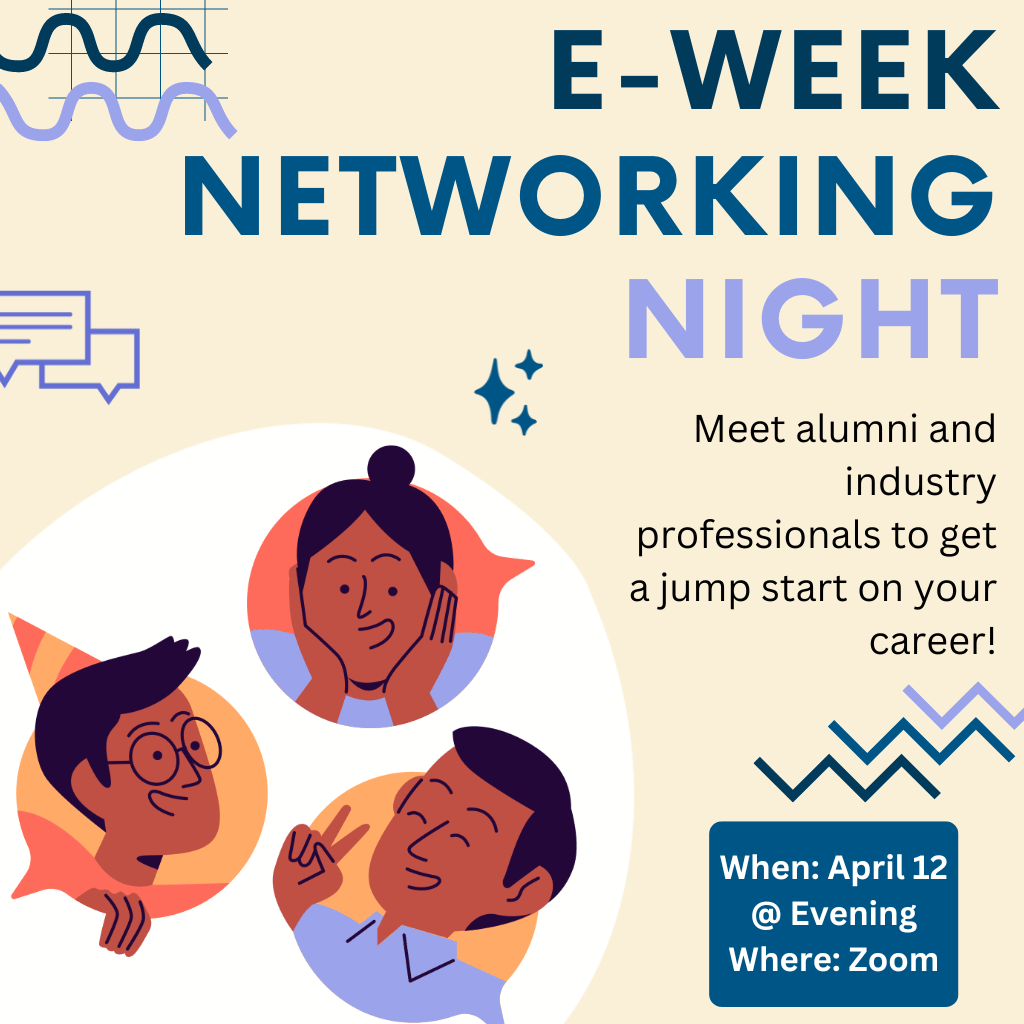
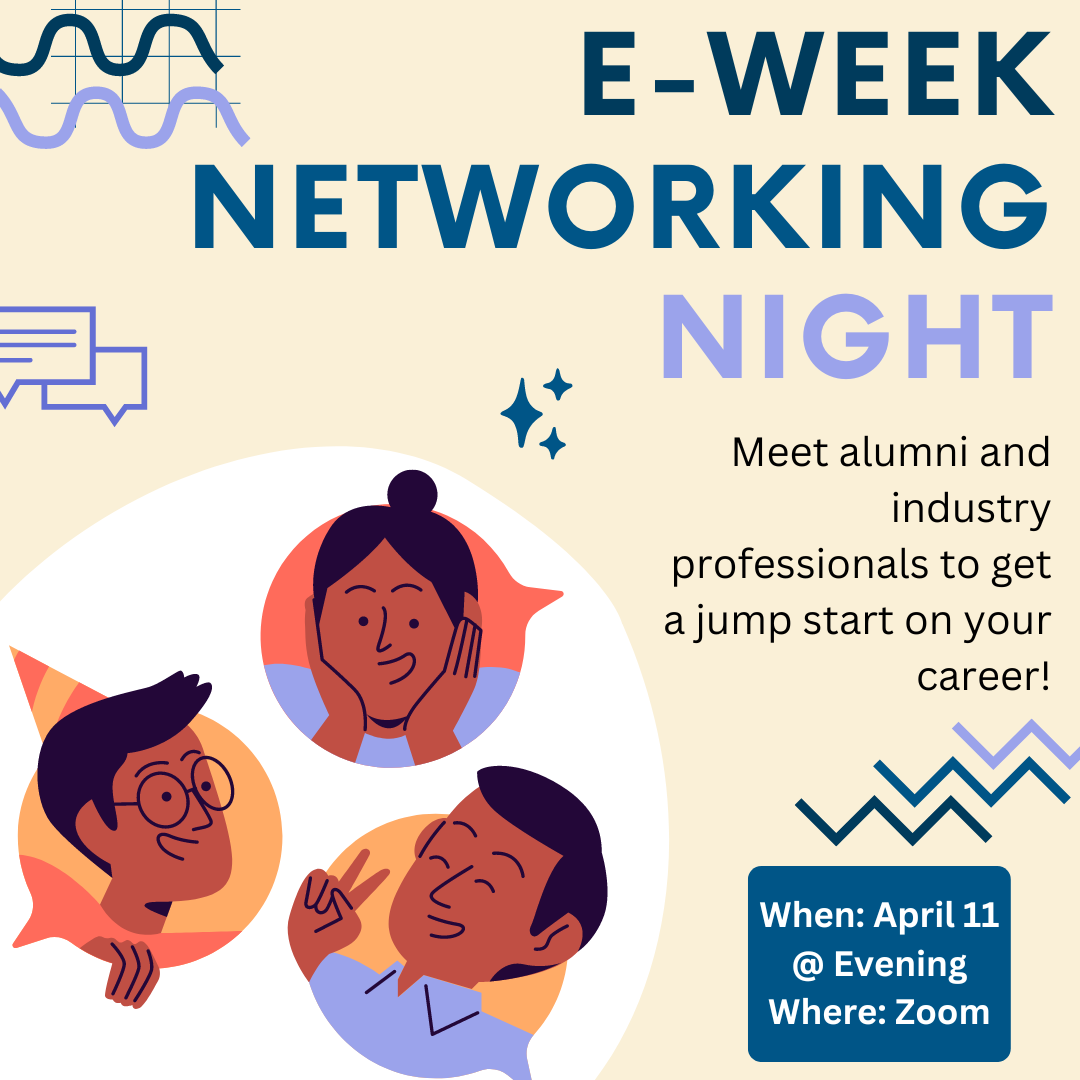
Add event information

diff --git a/index.html b/index.html
@@ -11,7 +11,7 @@
 
     gtag('config', 'G-LC3GMRC42E');
   </script>
-  
+
   <meta charset="utf-8">
   <meta content="width=device-width, initial-scale=1.0" name="viewport">
 
@@ -61,7 +61,7 @@
           <li><a class="nav-link scrollto active" href="#hero">Home</a></li>
           <li><a class="nav-link scrollto" href="#about">About</a></li>
           <li><a class="nav-link scrollto" href="#events">Events</a></li>
-          <li><a class="nav-link scrollto " href="#display">Art Gallery</a></li>
+          <li><a class="nav-link scrollto " href="#display">Art Display</a></li>
           <!-- <li class="dropdown"><a href="#"><span>Drop Down</span> <i class="bi bi-chevron-down"></i></a>
             <ul>
               <li><a href="#">Drop Down 1</a></li>
@@ -207,7 +207,7 @@
           <li class="nav-item col-2">
             <a class="nav-link" data-bs-toggle="tab" href="#tab-4">
               <i class="ri-store-line"></i>
-              <h4 class="d-none d-lg-block">Engineer's Ball</h4>
+              <h4 class="d-none d-lg-block">Engineers Ball</h4>
             </a>
           </li>
           <li class="nav-item col-2">
@@ -219,7 +219,7 @@
           <li class="nav-item col-2">
             <a class="nav-link" data-bs-toggle="tab" href="#tab-6">
               <i class="ri-store-line"></i>
-              <h4 class="d-none d-lg-block">Art Gallery</h4>
+              <h4 class="d-none d-lg-block">Art Display</h4>
             </a>
           </li>
         </ul>
@@ -228,20 +228,21 @@
           <div class="tab-pane active show" id="tab-1">
             <div class="row">
               <div class="col-lg-6 order-2 order-lg-1 mt-3 mt-lg-0">
-                <h3>Voluptatem dignissimos provident quasi corporis voluptates sit assumenda.</h3>
+                <h3>Kids Day</h3>
                 <p class="fst-italic">
-                  Lorem ipsum dolor sit amet, consectetur adipiscing elit, sed do eiusmod tempor incididunt ut labore et dolore
-                  magna aliqua.
+                  Kids Day is an event for the UCLA Engineering Students to give back to the community. 
+                  During Kids Day, hundreds of elementary school students are invited to UCLA for a day of hands-on learning outside of a classroom setting. 
                 </p>
                 <ul>
-                  <li><i class="ri-check-double-line"></i> Ullamco laboris nisi ut aliquip ex ea commodo consequat.</li>
-                  <li><i class="ri-check-double-line"></i> Duis aute irure dolor in reprehenderit in voluptate velit.</li>
-                  <li><i class="ri-check-double-line"></i> Ullamco laboris nisi ut aliquip ex ea commodo consequat. Duis aute irure dolor in reprehenderit in voluptate trideta storacalaperda mastiro dolore eu fugiat nulla pariatur.</li>
+                  <li><i class="ri-check-double-line"></i> Date: April 11, 2023</li>
+                  <li><i class="ri-check-double-line"></i> Time: 8 AM to 1 PM</li>
+                  <li><i class="ri-check-double-line"></i> Location: Ackerman Grand Ballroom</li>
                 </ul>
                 <p>
-                  Ullamco laboris nisi ut aliquip ex ea commodo consequat. Duis aute irure dolor in reprehenderit in voluptate
-                  velit esse cillum dolore eu fugiat nulla pariatur. Excepteur sint occaecat cupidatat non proident, sunt in
-                  culpa qui officia deserunt mollit anim id est laborum
+                  Engineer's Week is a decades-old tradition at the University of California, Los Angeles (UCLA) hosted by the Engineering Society of UCLA. 
+                  During this week-long festivities, the UCLA engineering community gathers to celebrate the achievements of the engineering clubs and works together to give back to the greater community. 
+                  One of the primary events is Kids Day, during which hundreds of elementary school students are invited to UCLA for a day of hands-on learning outside of a classroom setting. 
+                  This is a rewarding experience for older students to volunteer their time to the community and help foster a love for learning and engineering in younger students.
                 </p>
               </div>
               <div class="col-lg-6 order-1 order-lg-2 text-center">
@@ -252,22 +253,20 @@
           <div class="tab-pane" id="tab-2">
             <div class="row">
               <div class="col-lg-6 order-2 order-lg-1 mt-3 mt-lg-0">
-                <h3>Neque exercitationem debitis soluta quos debitis quo mollitia officia est</h3>
-                <p>
-                  Ullamco laboris nisi ut aliquip ex ea commodo consequat. Duis aute irure dolor in reprehenderit in voluptate
-                  velit esse cillum dolore eu fugiat nulla pariatur. Excepteur sint occaecat cupidatat non proident, sunt in
-                  culpa qui officia deserunt mollit anim id est laborum
-                </p>
+                <h3>Networking Night</h3>
                 <p class="fst-italic">
-                  Lorem ipsum dolor sit amet, consectetur adipiscing elit, sed do eiusmod tempor incididunt ut labore et dolore
-                  magna aliqua.
+                  An evening during E-Week, where representatives from  different companies come to talk to UCLA students about the future, industry, and advice.
                 </p>
                 <ul>
-                  <li><i class="ri-check-double-line"></i> Ullamco laboris nisi ut aliquip ex ea commodo consequat.</li>
-                  <li><i class="ri-check-double-line"></i> Duis aute irure dolor in reprehenderit in voluptate velit.</li>
-                  <li><i class="ri-check-double-line"></i> Provident mollitia neque rerum asperiores dolores quos qui a. Ipsum neque dolor voluptate nisi sed.</li>
-                  <li><i class="ri-check-double-line"></i> Ullamco laboris nisi ut aliquip ex ea commodo consequat. Duis aute irure dolor in reprehenderit in voluptate trideta storacalaperda mastiro dolore eu fugiat nulla pariatur.</li>
+                  <li><i class="ri-check-double-line"></i> Date: April 11, 2023</li>
+                  <li><i class="ri-check-double-line"></i> Time: Evening</li>
+                  <li><i class="ri-check-double-line"></i> Location: Zoom</li>
                 </ul>
+                <p>
+                  This smaller networking event is embedded in E-week and is designed to be a casual, informative evening for students to start or continue forming professional relationships with company representatives/alumni, as well as get advice. 
+                  The goal of Networking Night is to help undergraduate students make connections with people in the industry. 
+                  Undergraduate students are able to get insight into what it is like to work in the industry and how they can get internships.
+                </p>
               </div>
               <div class="col-lg-6 order-1 order-lg-2 text-center">
                 <img src="assets/img/events/networkingnight.png" alt="" class="img-fluid">
@@ -277,20 +276,19 @@
           <div class="tab-pane" id="tab-3">
             <div class="row">
               <div class="col-lg-6 order-2 order-lg-1 mt-3 mt-lg-0">
-                <h3>Voluptatibus commodi ut accusamus ea repudiandae ut autem dolor ut assumenda</h3>
-                <p>
-                  Ullamco laboris nisi ut aliquip ex ea commodo consequat. Duis aute irure dolor in reprehenderit in voluptate
-                  velit esse cillum dolore eu fugiat nulla pariatur. Excepteur sint occaecat cupidatat non proident, sunt in
-                  culpa qui officia deserunt mollit anim id est laborum
+                <h3>Rocket Egg Drop</h3>
+                <p class="fst-italic">
+                  The goals of this engineering challenge are to allow students to demonstrate their newfound knowledge from classes and apply what they have learned in a fun, team-oriented environment.
                 </p>
                 <ul>
-                  <li><i class="ri-check-double-line"></i> Ullamco laboris nisi ut aliquip ex ea commodo consequat.</li>
-                  <li><i class="ri-check-double-line"></i> Duis aute irure dolor in reprehenderit in voluptate velit.</li>
-                  <li><i class="ri-check-double-line"></i> Provident mollitia neque rerum asperiores dolores quos qui a. Ipsum neque dolor voluptate nisi sed.</li>
+                  <li><i class="ri-check-double-line"></i> Date: April 13, 2023</li>
+                  <li><i class="ri-check-double-line"></i> Time: 4 PM to 6 PM</li>
+                  <li><i class="ri-check-double-line"></i> Location: Boelter Penthouse (Floor 9)</li>
                 </ul>
-                <p class="fst-italic">
-                  Lorem ipsum dolor sit amet, consectetur adipiscing elit, sed do eiusmod tempor incididunt ut labore et dolore
-                  magna aliqua.
+                <p>
+                  In the spirit of E-Week, students will get the chance to show off their engineering skills through a classic egg drop with a twist. 
+                  The egg will be launched off the balcony with a bottle rocket of their design. Materials will be provided to protect the egg through various means. 
+                  Contestants will be judged on their design, construction, and inventiveness and win prizes during the awards ceremony after the eggs have been launched.
                 </p>
               </div>
               <div class="col-lg-6 order-1 order-lg-2 text-center">
@@ -301,21 +299,21 @@
           <div class="tab-pane" id="tab-4">
             <div class="row">
               <div class="col-lg-6 order-2 order-lg-1 mt-3 mt-lg-0">
-                <h3>Omnis fugiat ea explicabo sunt dolorum asperiores sequi inventore rerum</h3>
-                <p>
-                  Ullamco laboris nisi ut aliquip ex ea commodo consequat. Duis aute irure dolor in reprehenderit in voluptate
-                  velit esse cillum dolore eu fugiat nulla pariatur. Excepteur sint occaecat cupidatat non proident, sunt in
-                  culpa qui officia deserunt mollit anim id est laborum
-                </p>
+                <h3>Engineers Ball</h3>
                 <p class="fst-italic">
-                  Lorem ipsum dolor sit amet, consectetur adipiscing elit, sed do eiusmod tempor incididunt ut labore et dolore
-                  magna aliqua.
+                  Engineers Ball is a semi-formal social event for UCLA Engineering Students to have fun and step away from the stress of classes. 
+                  With provided food and entertainment, students will be able to enjoy catching up with old friends and making new ones.
                 </p>
                 <ul>
-                  <li><i class="ri-check-double-line"></i> Ullamco laboris nisi ut aliquip ex ea commodo consequat.</li>
-                  <li><i class="ri-check-double-line"></i> Duis aute irure dolor in reprehenderit in voluptate velit.</li>
-                  <li><i class="ri-check-double-line"></i> Ullamco laboris nisi ut aliquip ex ea commodo consequat. Duis aute irure dolor in reprehenderit in voluptate trideta storacalaperda mastiro dolore eu fugiat nulla pariatur.</li>
+                  <li><i class="ri-check-double-line"></i> Date: April 14, 2023</li>
+                  <li><i class="ri-check-double-line"></i> Time: 6 PM to 9 PM</li>
+                  <li><i class="ri-check-double-line"></i> Location: TBD</li>
                 </ul>
+                <p>
+                  Engineers Ball is an event hosted by ESUC during our annual Engineers Week (E-Week) during Week 2 of Spring Quarter. 
+                  It is a chance for engineering students to unwind from the stresses of the year and have fun with friends! 
+                  With the many tasks that engineering students often take on in addition to their classes, ESUC aims to create a relaxing environment where students can dress up and have fun with crafts and games provided at the event.
+                </p>
               </div>
               <div class="col-lg-6 order-1 order-lg-2 text-center">
                 <img src="assets/img/events/engineersball.png" alt="" class="img-fluid">
@@ -325,20 +323,18 @@
           <div class="tab-pane" id="tab-5">
             <div class="row">
               <div class="col-lg-6 order-2 order-lg-1 mt-3 mt-lg-0">
-                <h3>Voluptatem dignissimos provident quasi corporis voluptates sit assumenda.</h3>
+                <h3>Field Day</h3>
                 <p class="fst-italic">
-                  Lorem ipsum dolor sit amet, consectetur adipiscing elit, sed do eiusmod tempor incididunt ut labore et dolore
-                  magna aliqua.
+                  This event is an opportunity for engineering students to come together to enjoy food, games, and company.
                 </p>
                 <ul>
-                  <li><i class="ri-check-double-line"></i> Ullamco laboris nisi ut aliquip ex ea commodo consequat.</li>
-                  <li><i class="ri-check-double-line"></i> Duis aute irure dolor in reprehenderit in voluptate velit.</li>
-                  <li><i class="ri-check-double-line"></i> Ullamco laboris nisi ut aliquip ex ea commodo consequat. Duis aute irure dolor in reprehenderit in voluptate trideta storacalaperda mastiro dolore eu fugiat nulla pariatur.</li>
+                  <li><i class="ri-check-double-line"></i> Date: April 16, 2023</li>
+                  <li><i class="ri-check-double-line"></i> Time: 5 PM to 7 PM</li>
+                  <li><i class="ri-check-double-line"></i> Location: Sunset Rec Amphitheatre</li>
                 </ul>
                 <p>
-                  Ullamco laboris nisi ut aliquip ex ea commodo consequat. Duis aute irure dolor in reprehenderit in voluptate
-                  velit esse cillum dolore eu fugiat nulla pariatur. Excepteur sint occaecat cupidatat non proident, sunt in
-                  culpa qui officia deserunt mollit anim id est laborum
+                  The goal is for students to be able to take a break from studying, reconnect with nature, and become familiarized with their community of engineers. 
+                  The community outcome will be better relationships within the engineering community that can help in improving student experiences in the classroom, in clubs, and in exploring engineering endeavors.
                 </p>
               </div>
               <div class="col-lg-6 order-1 order-lg-2 text-center">
@@ -349,24 +345,23 @@
           <div class="tab-pane" id="tab-6">
             <div class="row">
               <div class="col-lg-6 order-2 order-lg-1 mt-3 mt-lg-0">
-                <h3>Voluptatem dignissimos provident quasi corporis voluptates sit assumenda.</h3>
+                <h3>Art Display</h3>
                 <p class="fst-italic">
-                  Lorem ipsum dolor sit amet, consectetur adipiscing elit, sed do eiusmod tempor incididunt ut labore et dolore
-                  magna aliqua.
+                  Who said engineers weren't creative? Show off your art skills and have your work exhibited in the Kerckhoff Art Gallery.
                 </p>
                 <ul>
-                  <li><i class="ri-check-double-line"></i> Ullamco laboris nisi ut aliquip ex ea commodo consequat.</li>
-                  <li><i class="ri-check-double-line"></i> Duis aute irure dolor in reprehenderit in voluptate velit.</li>
-                  <li><i class="ri-check-double-line"></i> Ullamco laboris nisi ut aliquip ex ea commodo consequat. Duis aute irure dolor in reprehenderit in voluptate trideta storacalaperda mastiro dolore eu fugiat nulla pariatur.</li>
+                  <li><i class="ri-check-double-line"></i> Date: April 10-14, 2023 (All Week)</li>
+                  <li><i class="ri-check-double-line"></i> Time: 7 AM to 7 PM</li>
+                  <li><i class="ri-check-double-line"></i> Location: Kerckhoff Art Gallery + Others</li>
                 </ul>
                 <p>
-                  Ullamco laboris nisi ut aliquip ex ea commodo consequat. Duis aute irure dolor in reprehenderit in voluptate
-                  velit esse cillum dolore eu fugiat nulla pariatur. Excepteur sint occaecat cupidatat non proident, sunt in
-                  culpa qui officia deserunt mollit anim id est laborum
+                  Art Display is a chance for engineers to show off their artistic abilities and talents. 
+                  Art created by engineers will be displayed either in person throughout the entirety of E-Week in either the ESUC Lounge, SEAS Cafe, or Kerckhoff Art Gallery AND/OR on a website and our social media. 
+                  A public voting form will be posted for the people to vote for their favorite pieces, and the top 3 works will receive a prize.
                 </p>
               </div>
               <div class="col-lg-6 order-1 order-lg-2 text-center">
-                <img src="assets/img/events/artgallery.png" alt="" class="img-fluid">
+                <img src="assets/img/events/artdisplay.png" alt="" class="img-fluid">
               </div>
             </div>
           </div>
@@ -381,7 +376,7 @@
 
         <div class="section-title">
           <h2>Art Submissions Exhibited Here</h2>
-          <p>Art Gallery</p>
+          <p>Art Display</p>
         </div>
 
         <div class="row" data-aos="fade-up" data-aos-delay="100">
@@ -396,32 +391,32 @@
 
         <div class="row portfolio-container" data-aos="fade-up" data-aos-delay="200">
 
-          <div class="col-lg-4 col-md-6 portfolio-item filter-app">
-            <img src="assets/img/portfolio/portfolio-1.jpg" class="img-fluid" alt="">
-            <div class="portfolio-info">
-              <h4>App 1</h4>
-              <p>App</p>
-              <a href="assets/img/portfolio/portfolio-1.jpg" data-gallery="portfolioGallery" class="portfolio-lightbox preview-link" title="App 1"><i class="bx bx-plus"></i></a>
-              <!-- <a href="portfolio-details.html" class="details-link" title="More Details"><i class="bx bx-link"></i></a> -->
-            </div>
-          </div>
-
-          <div class="col-lg-4 col-md-6 portfolio-item filter-web">
+          <div class="col-lg-4 col-md-6 portfolio-item filter-submissions">
             <img src="assets/img/portfolio/portfolio-2.jpg" class="img-fluid" alt="">
             <div class="portfolio-info">
-              <h4>Web 3</h4>
-              <p>Web</p>
-              <a href="assets/img/portfolio/portfolio-2.jpg" data-gallery="portfolioGallery" class="portfolio-lightbox preview-link" title="Web 3"><i class="bx bx-plus"></i></a>
+              <h4>Honeycomb</h4>
+              <p>Submission</p>
+              <a href="assets/img/portfolio/portfolio-2.jpg" data-gallery="portfolioGallery" class="portfolio-lightbox preview-link" title="App 1"><i class="bx bx-plus"></i></a>
               <!-- <a href="portfolio-details.html" class="details-link" title="More Details"><i class="bx bx-link"></i></a> -->
             </div>
           </div>
 
-          <div class="col-lg-4 col-md-6 portfolio-item filter-card">
-            <img src="assets/img/portfolio/portfolio-4.jpg" class="img-fluid" alt="">
+          <div class="col-lg-4 col-md-6 portfolio-item filter-winners">
+            <img src="assets/img/portfolio/portfolio-7.jpg" class="img-fluid" alt="">
             <div class="portfolio-info">
-              <h4>Card 2</h4>
-              <p>Card</p>
-              <a href="assets/img/portfolio/portfolio-4.jpg" data-gallery="portfolioGallery" class="portfolio-lightbox preview-link" title="Card 2"><i class="bx bx-plus"></i></a>
+              <h4>Camera</h4>
+              <p>Winner</p>
+              <a href="assets/img/portfolio/portfolio-7.jpg" data-gallery="portfolioGallery" class="portfolio-lightbox preview-link" title="Web 3"><i class="bx bx-plus"></i></a>
+              <!-- <a href="portfolio-details.html" class="details-link" title="More Details"><i class="bx bx-link"></i></a> -->
+            </div>
+          </div>
+
+          <div class="col-lg-4 col-md-6 portfolio-item filter-submissions">
+            <img src="assets/img/portfolio/portfolio-8.jpg" class="img-fluid" alt="">
+            <div class="portfolio-info">
+              <h4>Wheat</h4>
+              <p>Submission</p>
+              <a href="assets/img/portfolio/portfolio-8.jpg" data-gallery="portfolioGallery" class="portfolio-lightbox preview-link" title="Card 2"><i class="bx bx-plus"></i></a>
               <!-- <a href="portfolio-details.html" class="details-link" title="More Details"><i class="bx bx-link"></i></a> -->
             </div>
           </div>

diff --git a/inner-page.html b/inner-page.html
@@ -62,7 +62,7 @@
           <li><a class="nav-link scrollto active" href="#hero">Home</a></li>
           <li><a class="nav-link scrollto" href="#about">About</a></li>
           <li><a class="nav-link scrollto" href="#events">Events</a></li>
-          <li><a class="nav-link scrollto " href="#display">Art Gallery</a></li>
+          <li><a class="nav-link scrollto " href="#display">Art Display</a></li>
           <!-- <li class="dropdown"><a href="#"><span>Drop Down</span> <i class="bi bi-chevron-down"></i></a>
             <ul>
               <li><a href="#">Drop Down 1</a></li>

diff --git a/portfolio-details.html b/portfolio-details.html
@@ -62,7 +62,7 @@
           <li><a class="nav-link scrollto active" href="#hero">Home</a></li>
           <li><a class="nav-link scrollto" href="#about">About</a></li>
           <li><a class="nav-link scrollto" href="#events">Events</a></li>
-          <li><a class="nav-link scrollto " href="#display">Art Gallery</a></li>
+          <li><a class="nav-link scrollto " href="#display">Art Display</a></li>
           <!-- <li class="dropdown"><a href="#"><span>Drop Down</span> <i class="bi bi-chevron-down"></i></a>
             <ul>
               <li><a href="#">Drop Down 1</a></li>
